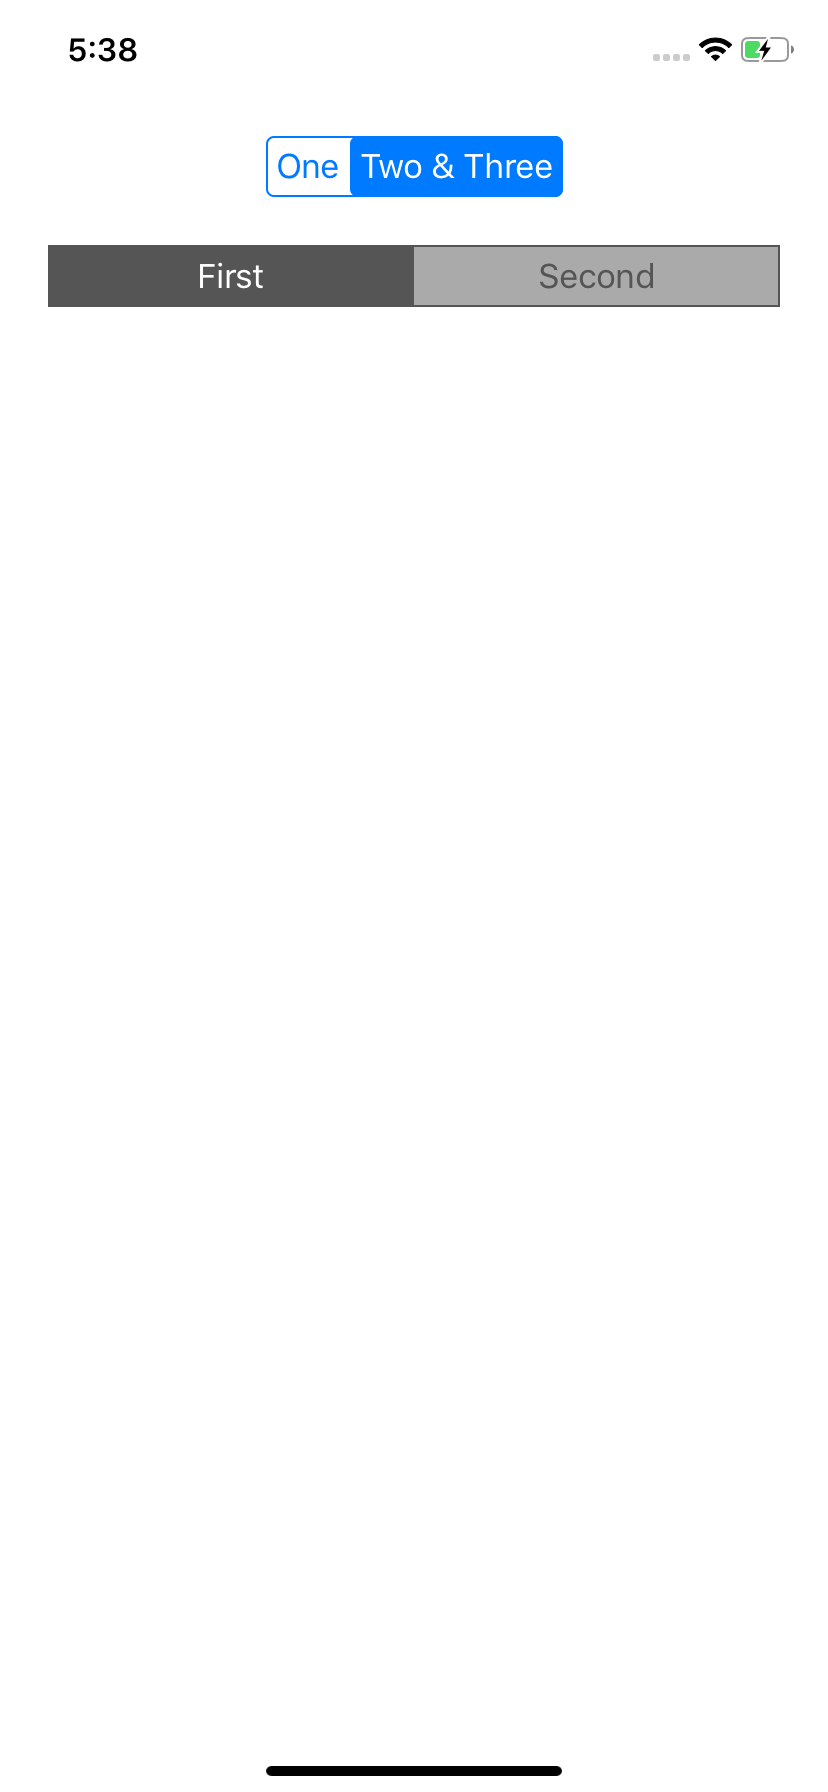
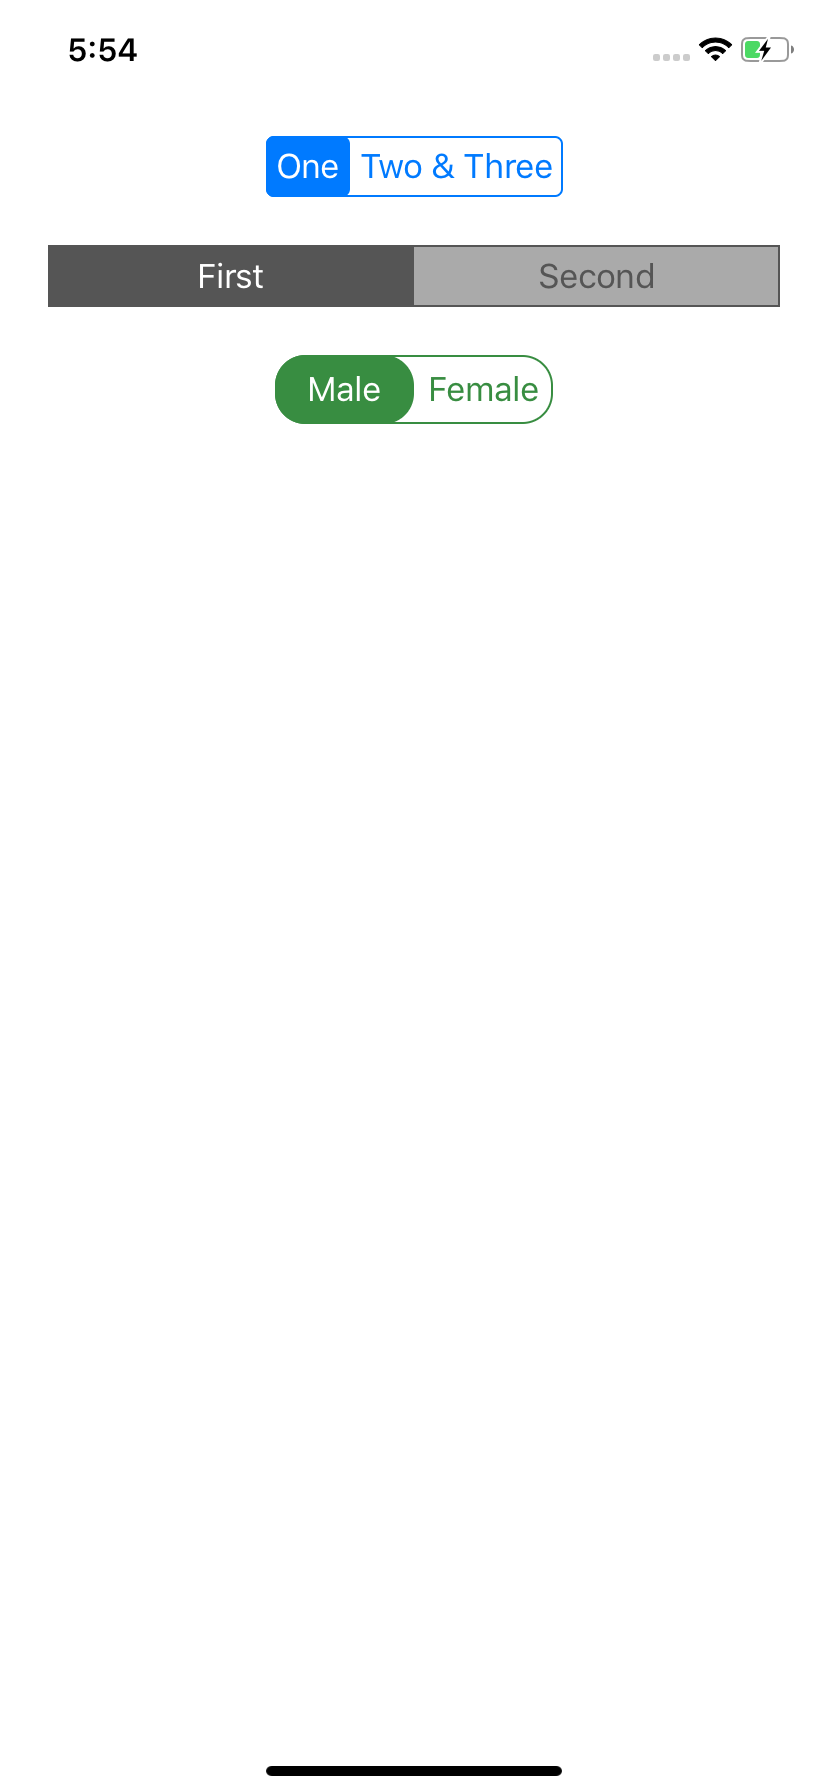
Update UI and screen shot.

Changed region(s): [[0.3019, 0.0625, 0.6944, 0.125], [0.3321, 0.1875, 0.6643, 0.25], [0.1208, 0.0, 0.151, 0.0312]]

diff --git a/ToggleButton/Sources/ViewController.swift b/ToggleButton/Sources/ViewController.swift
@@ -12,6 +12,7 @@ class ViewController: UIViewController {
 
     @IBOutlet weak private var toggleButton1: ToggleButton!
     @IBOutlet weak private var toggleButton2: ToggleButton!
+    @IBOutlet weak private var toggleButton3: ToggleButton!
 
     override func viewDidLoad() {
         super.viewDidLoad()
@@ -20,10 +21,15 @@ class ViewController: UIViewController {
     }
 
     private func setupViews() {
+        // Button 1
         toggleButton1.contentSizeMode = .wrapText
 
-
+        // Button 2
         toggleButton2.isRoundCorner = false
         toggleButton2.contentSizeMode = .equalize
+
+        // Button 3
+        toggleButton3.isRoundCorner = true
+        toggleButton3.contentSizeMode = .equalize
     }
 }
